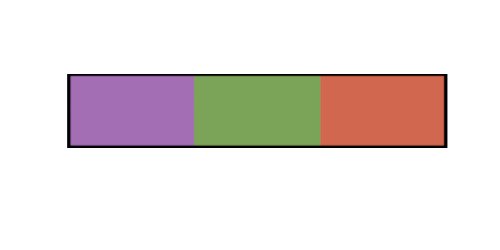
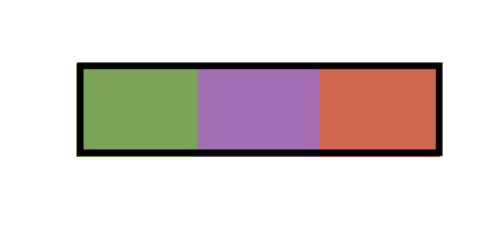
new 3factor colors, UI cleanup

Changed region(s): [[0.12, 0.224, 0.9, 0.644]]

diff --git a/www/yeti.css b/www/yeti.css
@@ -7081,7 +7081,7 @@ input[type="checkbox"] {
   font-weight:bold;
 }
 
-.shiny-input-container .bootstrap-select, .shiny-input-container .dropdown-toggle, {
+.shiny-input-container .bootstrap-select, .shiny-input-container .dropdown-toggle {
   background-color:#e7e7e7;
   border-radius:4px;
 }
